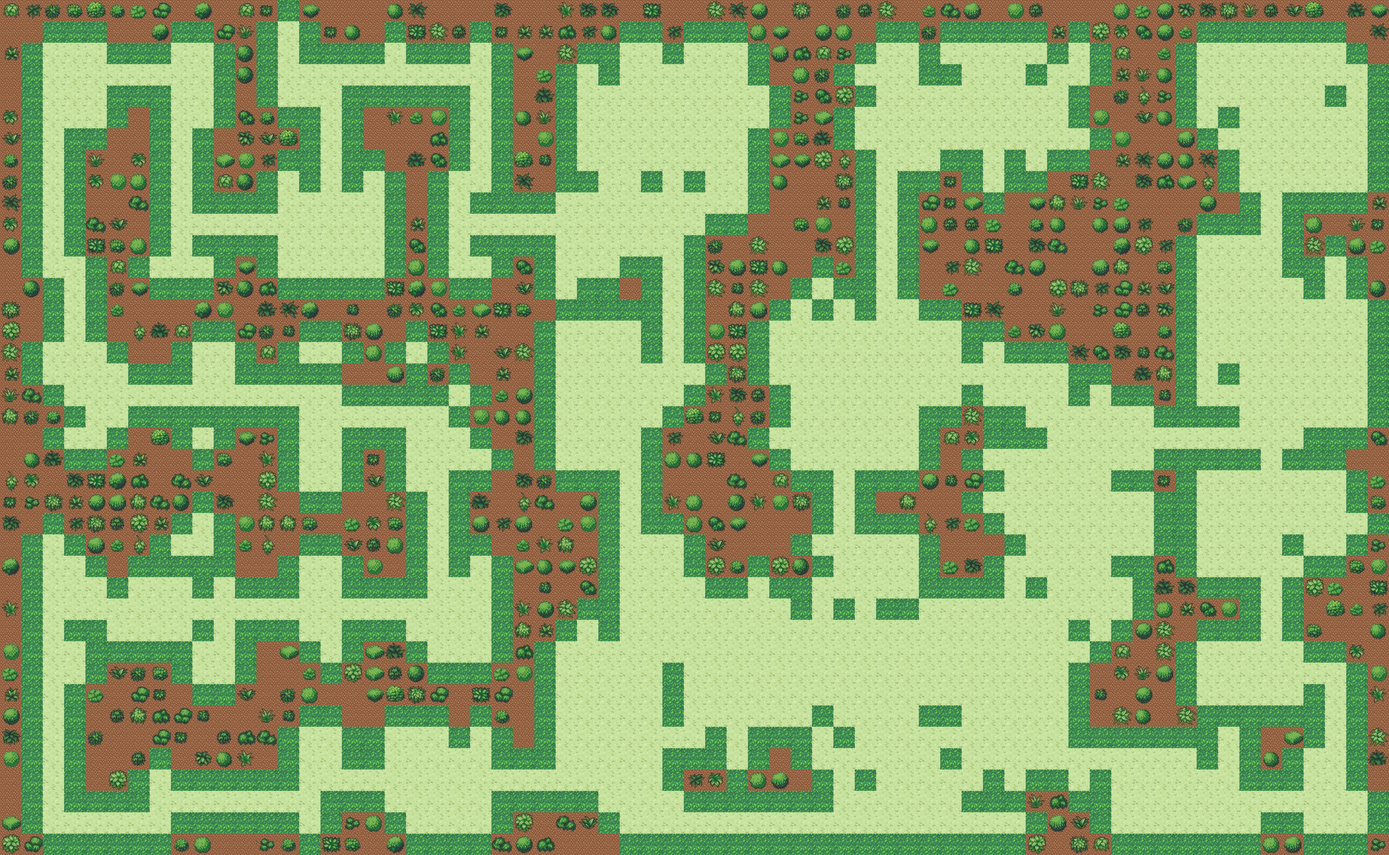
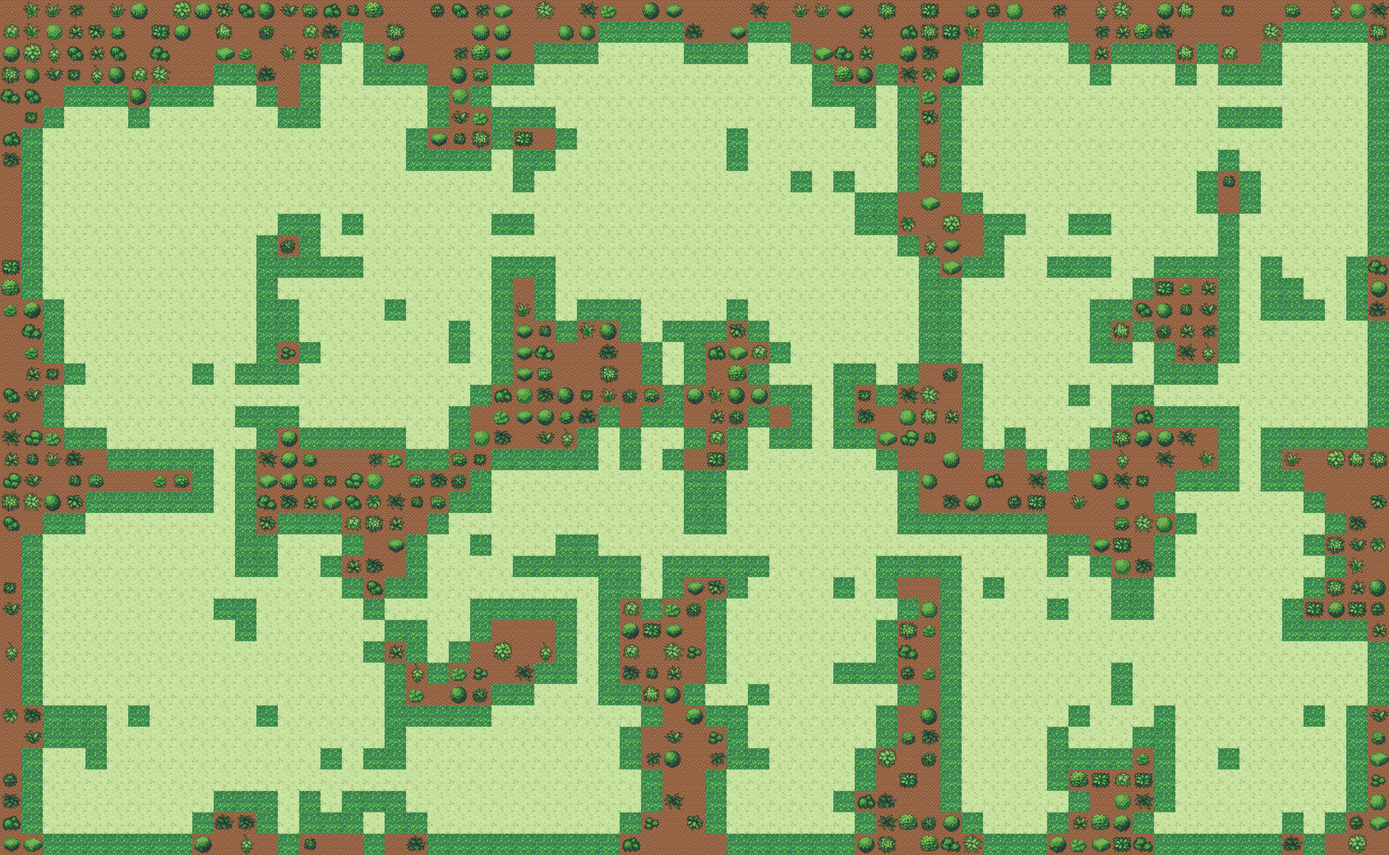
fix dead ends

diff --git a/generator.py b/generator.py
@@ -94,7 +94,7 @@ def create_corridor(current_room_center, destination):
 
     return corridor
 def connect_rooms(room_centers):
-    corridors = set()
+    corridors = []
     current_room_center = room_centers.pop(random.randint(0, len(room_centers)-1))
 
     while len(room_centers) > 0:
@@ -102,7 +102,8 @@ def connect_rooms(room_centers):
         room_centers.remove(closest)
         new_corridor = create_corridor(current_room_center, closest)
         current_room_center = closest
-        corridors |= new_corridor
+        #тут ошибка так как коридоры сливаются в единый а не остаются по разным словарям
+        corridors.append(new_corridor)
     return corridors
 
 
@@ -158,7 +159,12 @@ def create_splitted_rooms(size, c_p = collision_points, w_z=working_zone):
     room_centers = [room.leaf.center for room in rooms.get_leafs()]
 
     corridors = connect_rooms(room_centers)
-    floor |= corridors
+    for cor in corridors:
+        for point in cor:
+            floor.add(point)
+    #ОБРАТБОТКА ОШИБКИ ТУПИКА
+    if not is_connected(rooms, corridors):
+        create_exits(rooms,corridors, room_centers)
     empty_space = fill_empty_space(floor, container)
     components = make_component_for_image(floor, empty_space)
     image_manager.make_image(container, size, components)
@@ -168,11 +174,95 @@ def create_splitted_rooms(size, c_p = collision_points, w_z=working_zone):
     c_p |= empty_space
     w_z.update([(p[0] * size[0], p[1] * size[1]) for p in floor])
     start[0], start[1] = sorted(w_z, key=distance_from_start)[0]
-
+    #start[0], start[1] = move_player_to_exit((start[0],start[1]),rooms)
 
     #serializer.write(floor)
+def move_player_to_exit(player_position, rooms):
+    exit_found = False
+    for room in rooms.get_leafs():
+        room_center = room.leaf.center
+        if room_center.x != player_position[0] and room_center.y != player_position[1]:
+            # Переместите игрока в центр ближайшей комнаты
+            player_position = room_center
+            exit_found = True
+            break
+    return player_position.x, player_position.y
 
+def create_exits(rooms, corridors, room_centers):
+    isolated_rooms = []
+    for room in rooms.get_leafs():
+        room_center = room.leaf.center
+        exits = 0
+        for direction in g.cardinal_directions:
+            neighbor = (room_center.x + direction[0], room_center.y + direction[1])
+            if neighbor in corridors:
+                exits += 1
+        if exits == 0:
+            # Создайте выход в случайном направлении
+            isolated_rooms.append(room)
+    for room in isolated_rooms:
+        # Находим ближайшую соединенную комнату
+        closest = find_closest_point(room.leaf.center, room_centers)
+        if closest:
+            new_corridor = create_corridor(room, closest)
+            corridors.append(new_corridor) 
 
+def is_connected(rooms, corridors):
+    graph = {}
+    
+    # Добавляем комнаты в граф
+    for room in rooms.get_leafs():
+        room_center = (room.leaf.center.x, room.leaf.center.y)
+        graph[room_center] = []
+
+    # Добавляем коридоры в граф
+    for corridor in corridors:
+        for point in corridor:
+            if point not in graph:
+                graph[point] = []
+
+    # Соединяем коридоры с комнатами
+    for room in rooms.get_leafs():
+        room_center = (room.leaf.center.x, room.leaf.center.y)
+        for corridor in corridors:
+            for point in corridor:
+                # Если коридор находится рядом с комнатой, соединяем их
+                if is_near(room_center, point):
+                    graph[room_center].append(point)
+                    graph[point].append(room_center)
+
+    visited = set()
+
+    def dfs(node):
+        visited.add(node)
+        for neighbor in graph[node]:
+            if neighbor not in visited:
+                dfs(neighbor)
+
+    # Начинаем обход с первой комнаты
+    #start_node = (start_node = (rooms.get_leafs()[0].leaf.center.x, rooms.get_leafs()[0].leaf.center.y)
+    for room in rooms.get_leafs():
+        start_node = (room.leaf.center.x, room.leaf.center.y) = (room.leaf.center.x, room.leaf.center.y)
+        dfs(start_node)
+        break
+    
+
+    # Проверяем, что все комнаты и коридоры посещены
+    leaf_rooms = list(rooms.get_leafs())  # Convert the generator to a list
+    num_leaf_rooms = len(leaf_rooms)  # Get the number of leaf rooms
+
+    # Calculate the total number of corridor points
+    total_corridor_points = sum(len(corridor) for corridor in corridors)
+
+    # Sum the number of leaf rooms and corridor points
+    total_nodes = num_leaf_rooms + total_corridor_points
+    return len(visited) == total_nodes
+
+def is_near(room_center, point):
+    # Определяем, насколько близко коридор должен быть к комнате, чтобы считать их связанными
+    threshold = 1  # Например, если коридор находится в пределах 1 единицы от комнаты
+    return (abs(room_center[0] - point[0]) <= threshold and
+            abs(room_center[1] - point[1]) <= threshold)
 
 def fill_empty_space(floor, container):
     empty_space = set()
